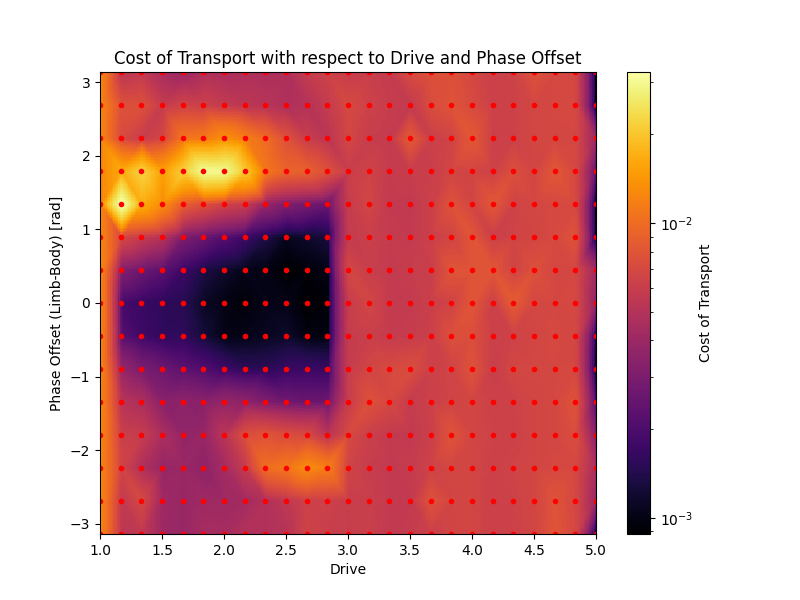
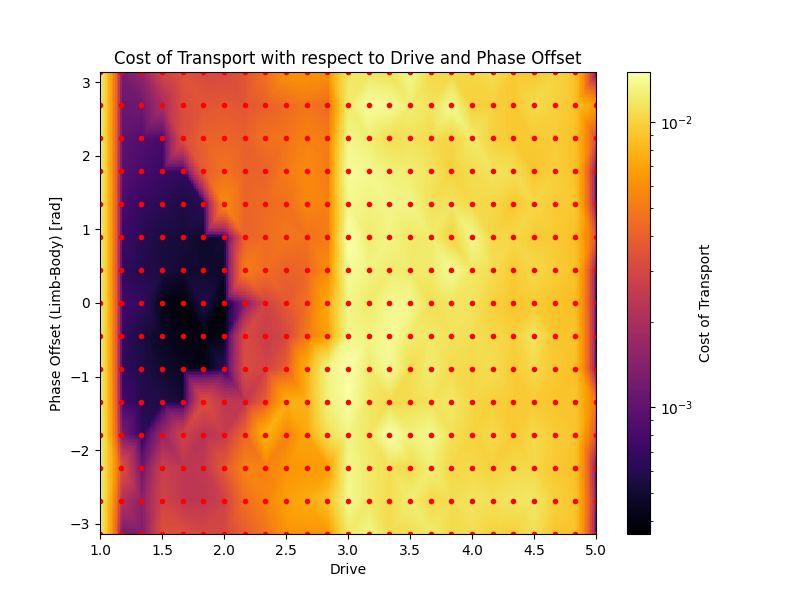
made a cleaner version for the gains from body to limbs

diff --git a/Project2/Python/robot_parameters.py b/Project2/Python/robot_parameters.py
@@ -240,6 +240,7 @@ class RobotParameters(dict):
         weight_intra_limb_contra = getattr(parameters, 'intra_limb_contra_weight', 10.0) #put 10 if no spine_limb_weight is given in parameters
         weight_intra_limb_ipsi = getattr(parameters, 'intra_limb_ipsi_weight', 10.0) #put 10 if no spine_limb_weight is given in parameters
         weight_limb_body = getattr(parameters, 'limb_spine_weight', 30.0) #put 10 if no spine_limb_weight is given in parameters
+        weight_body_limb = getattr(parameters, 'spine_limb_weight', 10.0)
 
         w = self.coupling_weights
         w[:] = 0.0
@@ -319,7 +320,7 @@ class RobotParameters(dict):
     
         for (limb_osc, body_oscs) in self.limb_to_body:
             for b in body_oscs:
-                w[limb_osc, b] = weight_limb_body/3
+                w[limb_osc, b] = weight_body_limb
                 w[b, limb_osc] = weight_limb_body # strong limb -> body
 
 

diff --git a/Project2/Python/exercise_p3.py b/Project2/Python/exercise_p3.py
@@ -990,10 +990,10 @@ def analyze_exercise_3b_results(base_log_folder='./logs/sweep_3b/'):
     plt.show()
 
 if __name__ == '__main__':
-    """exercise_3_disable_limb_spine_coupling(timestep=5e-3)
-    exercise_3_limb_spine_antiphase(timestep=5e-3)
-    exercise_3a_coordination(timestep=5e-3)
-    analyze_exercise_3a_results()"""
-    exercise_3b_coordination(timestep=5e-3)
+    #exercise_3_disable_limb_spine_coupling(timestep=5e-3)
+    #exercise_3_limb_spine_antiphase(timestep=5e-3)
+    #exercise_3a_coordination(timestep=5e-3)
+    analyze_exercise_3a_results()
+    #exercise_3b_coordination(timestep=5e-3)
     analyze_exercise_3b_results()
 
